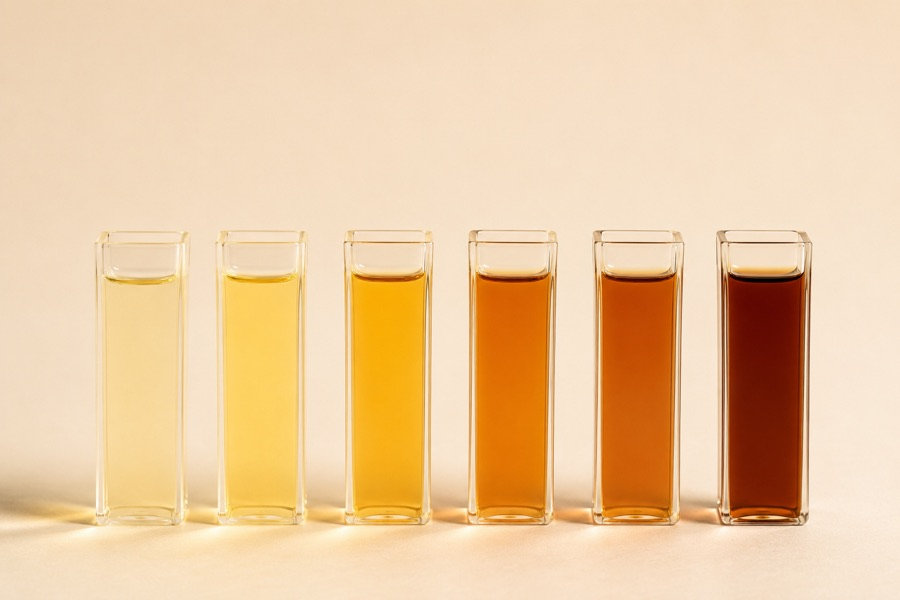
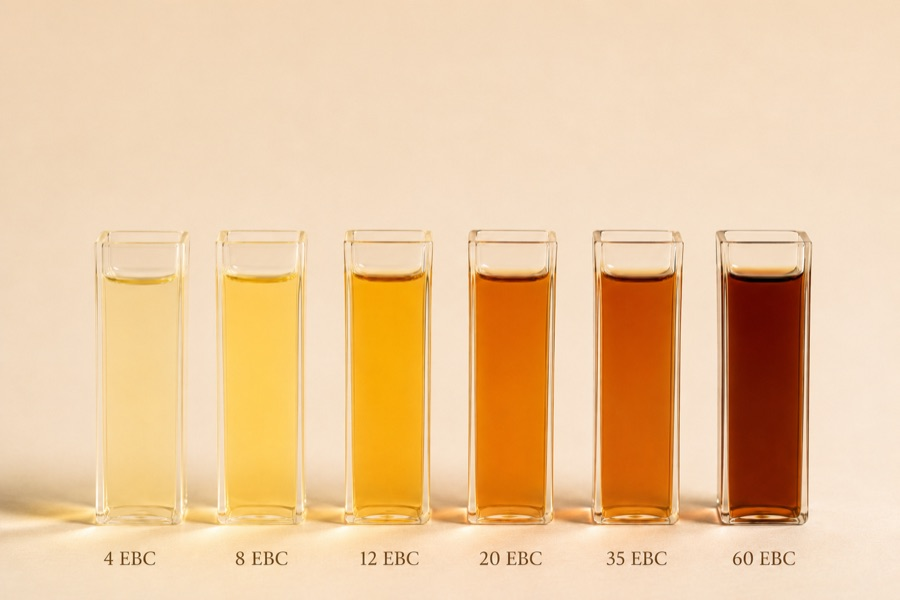
Шкала EBC: фото с подписями 4–60 EBC, кроп по нижнему краю

diff --git a/index.html b/index.html
@@ -234,9 +234,9 @@
   <figure class="wrap figband">
     <picture>
       <source media="(max-width:900px)" srcset="assets/img/lab-ebc-900.jpg">
-      <img src="assets/img/lab-ebc.jpg" alt="Ряд кювет с суслом разной цветности — от самого светлого до тёмного" width="1500" height="1000" loading="lazy" decoding="async">
+      <img src="assets/img/lab-ebc.jpg" alt="Ряд кювет с суслом: 4, 8, 12, 20, 35 и 60 EBC — от самого светлого до тёмного" width="1500" height="1000" loading="lazy" decoding="async">
     </picture>
-    <figcaption>Шкала цветности EBC — от самого светлого сусла слева до тёмного справа. Наши солода живут на её светлом краю: <b>3–4 EBC</b> ячменный и <b>3–5 EBC</b> пшеничный, это первая кювета.</figcaption>
+    <figcaption>Шкала цветности EBC — от 4 до 60. Наши солода стоят на самом её светлом краю, у первой кюветы: <b>3–4 EBC</b> ячменный и <b>3–5 EBC</b> пшеничный.</figcaption>
   </figure>
 </section>
 

diff --git a/css/style.css b/css/style.css
@@ -153,10 +153,10 @@ b,strong{font-weight:800}
 /* ---------- фото-полосы ---------- */
 .figband{margin:clamp(2.5rem,5vw,4rem) auto 0}
 .figband img{display:block;width:100%;height:auto;border-radius:var(--r);object-fit:cover}
-.lab .figband img{aspect-ratio:2.45/1;object-position:50% 72%}
+.lab .figband img{aspect-ratio:2/1;object-position:50% 100%}
 .about .figband img{aspect-ratio:16/9;object-position:50% 52%}
 @media (max-width:720px){
-  .lab .figband img{aspect-ratio:4/3;object-position:50% 74%}
+  .lab .figband img{aspect-ratio:3/2;object-position:50% 100%}
   .about .figband img{aspect-ratio:4/3;object-position:50% 52%}
 }
 .figband figcaption{margin-top:1.1rem;font-size:clamp(.85rem,.82rem + .2vw,.98rem);color:var(--brown-75);max-width:74ch;line-height:1.5}
